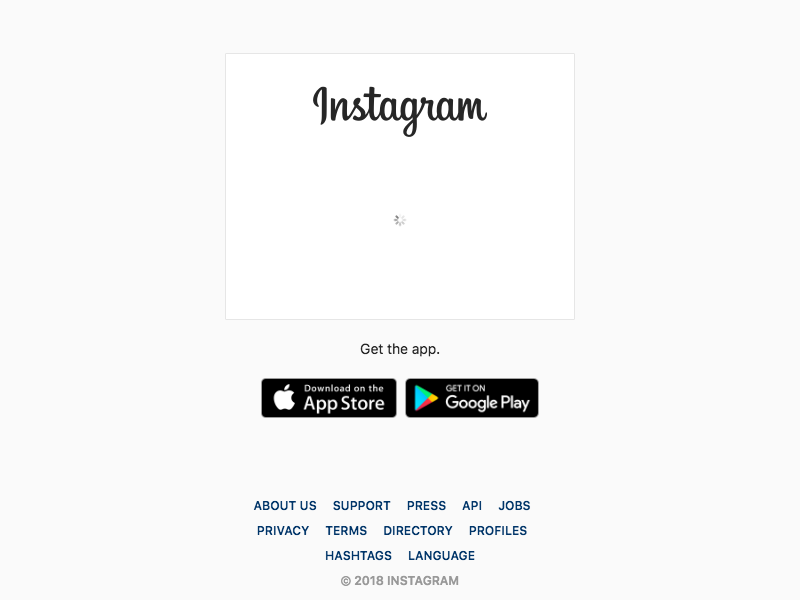
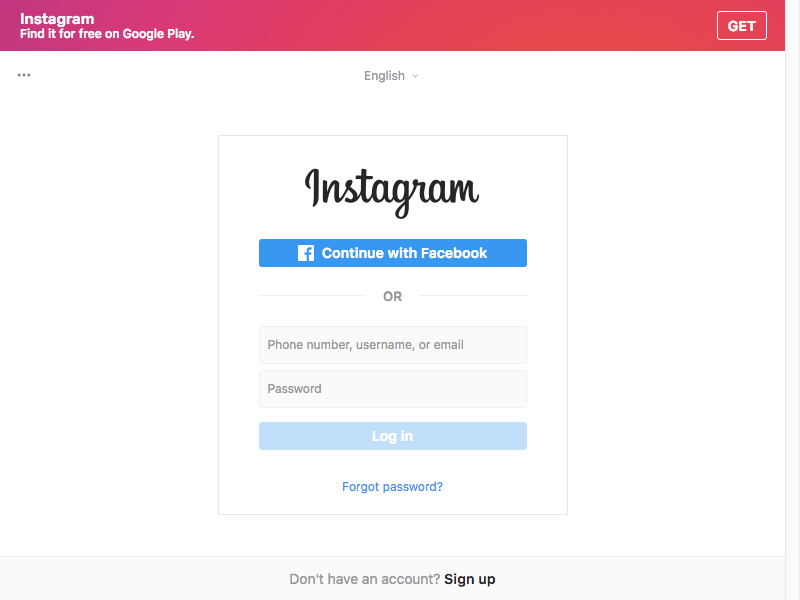
working on headless input

diff --git a/index.js b/index.js
@@ -2,6 +2,7 @@ const puppeteer = require('puppeteer');
 
 const { retrieveRedditPost } = require('./reddit-scraper');
 const { pickRandomTags } = require('./utils');
+const config = require('./config');
 
 (async () => {
   try {
@@ -10,12 +11,15 @@ const { pickRandomTags } = require('./utils');
 
     // console.log(redditPost);
 
-    const browser = await puppeteer.launch();
+    const browser = await puppeteer.launch({headless: false});
     const page = await browser.newPage();
-    await page.goto('https://www.instagram.com/');
-    await page.screenshot({path: 'example.png'});
+    page.setUserAgent(config.userAgent);
+    page.setViewport({ isMobile: true });
+    await page.goto('https://www.instagram.com/accounts/login/');
 
-    await browser.close();
+    await page.tap('#f277570152f3454');
+
+    // await browser.close();
 
   } catch (error) {
     throw error;
